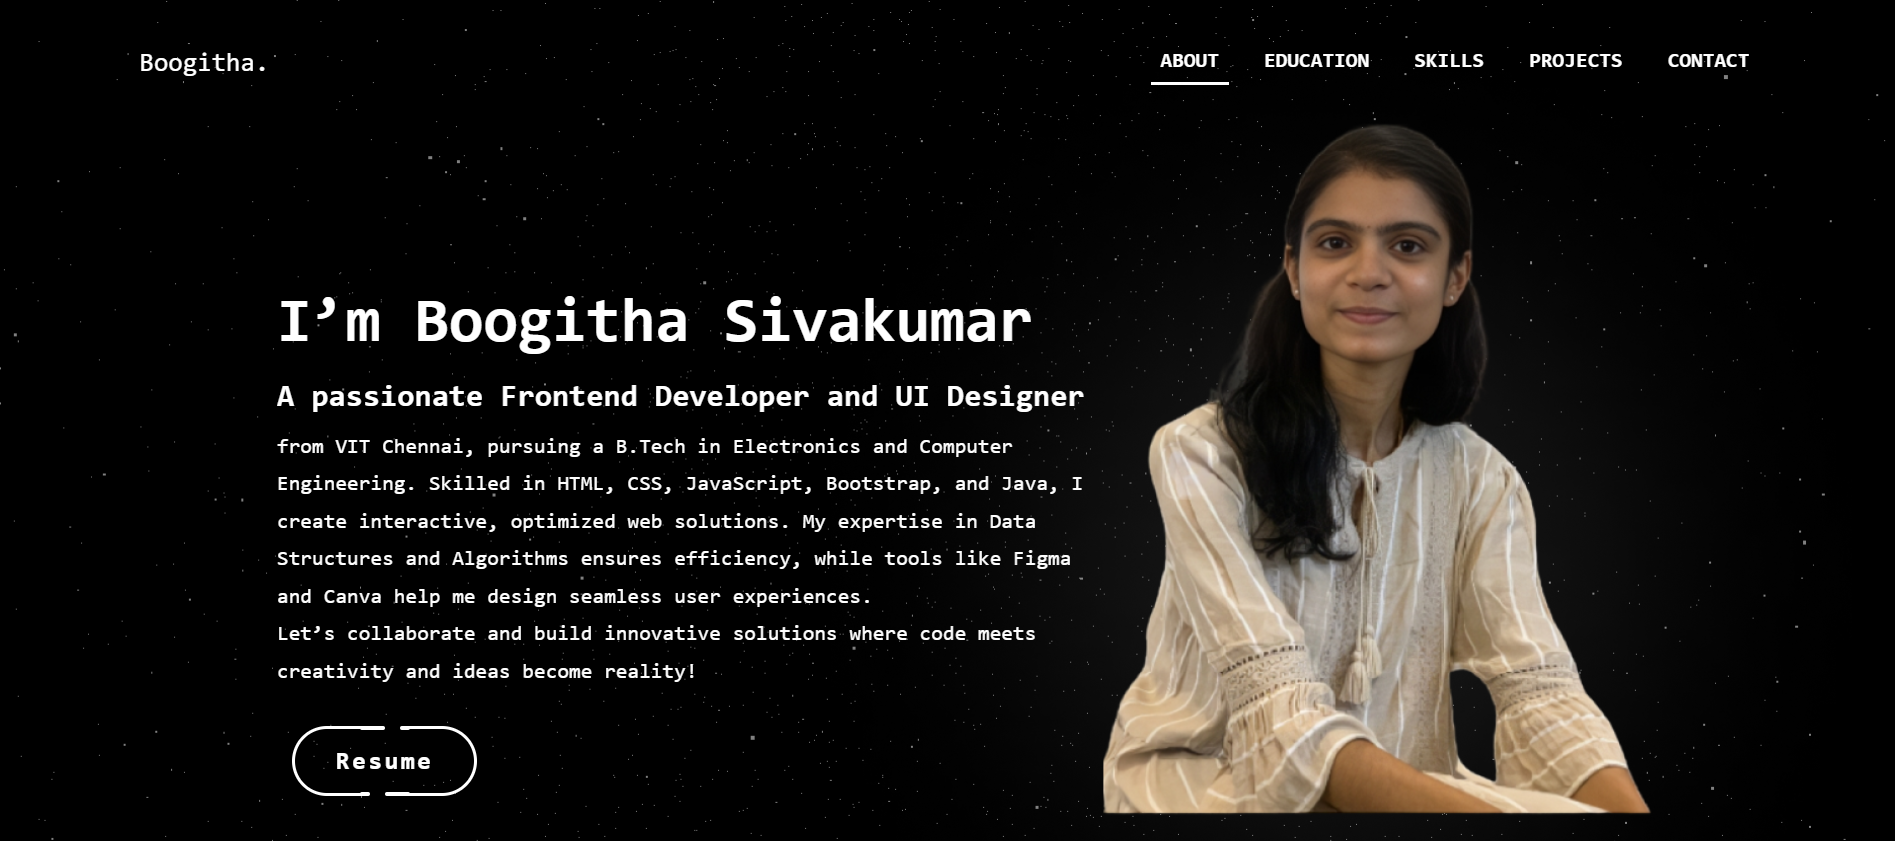
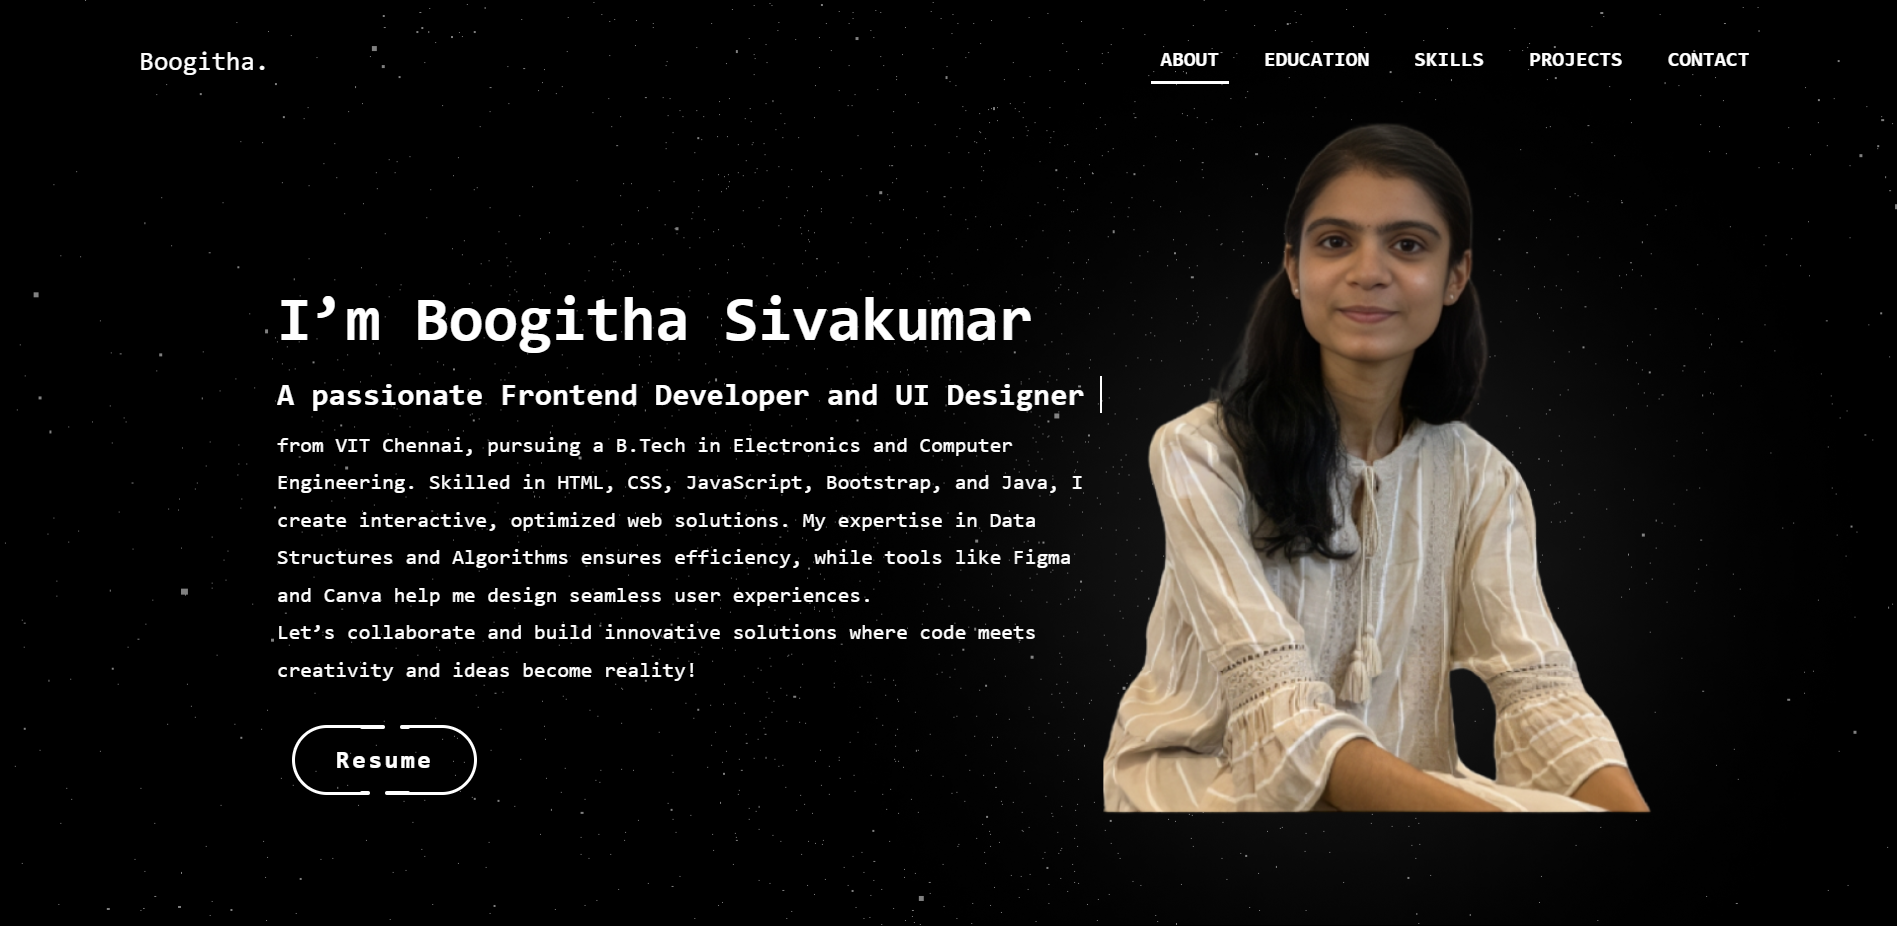
Update project links; replace placeholder URLs with live project links

Changed region(s): [[0.1245, 0.1237, 0.8718, 0.9893], [0.5916, 0.0309, 0.934, 0.1237], [0.0623, 0.0618, 0.1557, 0.0927]]

diff --git a/index.html b/index.html
@@ -460,7 +460,7 @@
                 <img src="./images/project1.png" alt="My Portfolio" />
               </div>
               <div class="content">
-                <a href="#">
+                <a href="https://boogitha.pages.dev/">
                   <span class="title">My Portfolio</span>
                 </a>
                 <p class="desc">
@@ -481,7 +481,7 @@
                 />
               </div>
               <div class="content">
-                <a href="#">
+                <a href="https://sahasya-mental-health-assistant.onrender.com/">
                   <span class="title"
                     >Sahasya - Your Mental Health Assistant</span
                   >
@@ -506,7 +506,7 @@
                 />
               </div>
               <div class="content">
-                <a href="#">
+                <a href="https://fashion-website-ere.pages.dev/">
                   <span class="title"
                     >Fashion Website - Modern E-Commerce Platform</span
                   >
